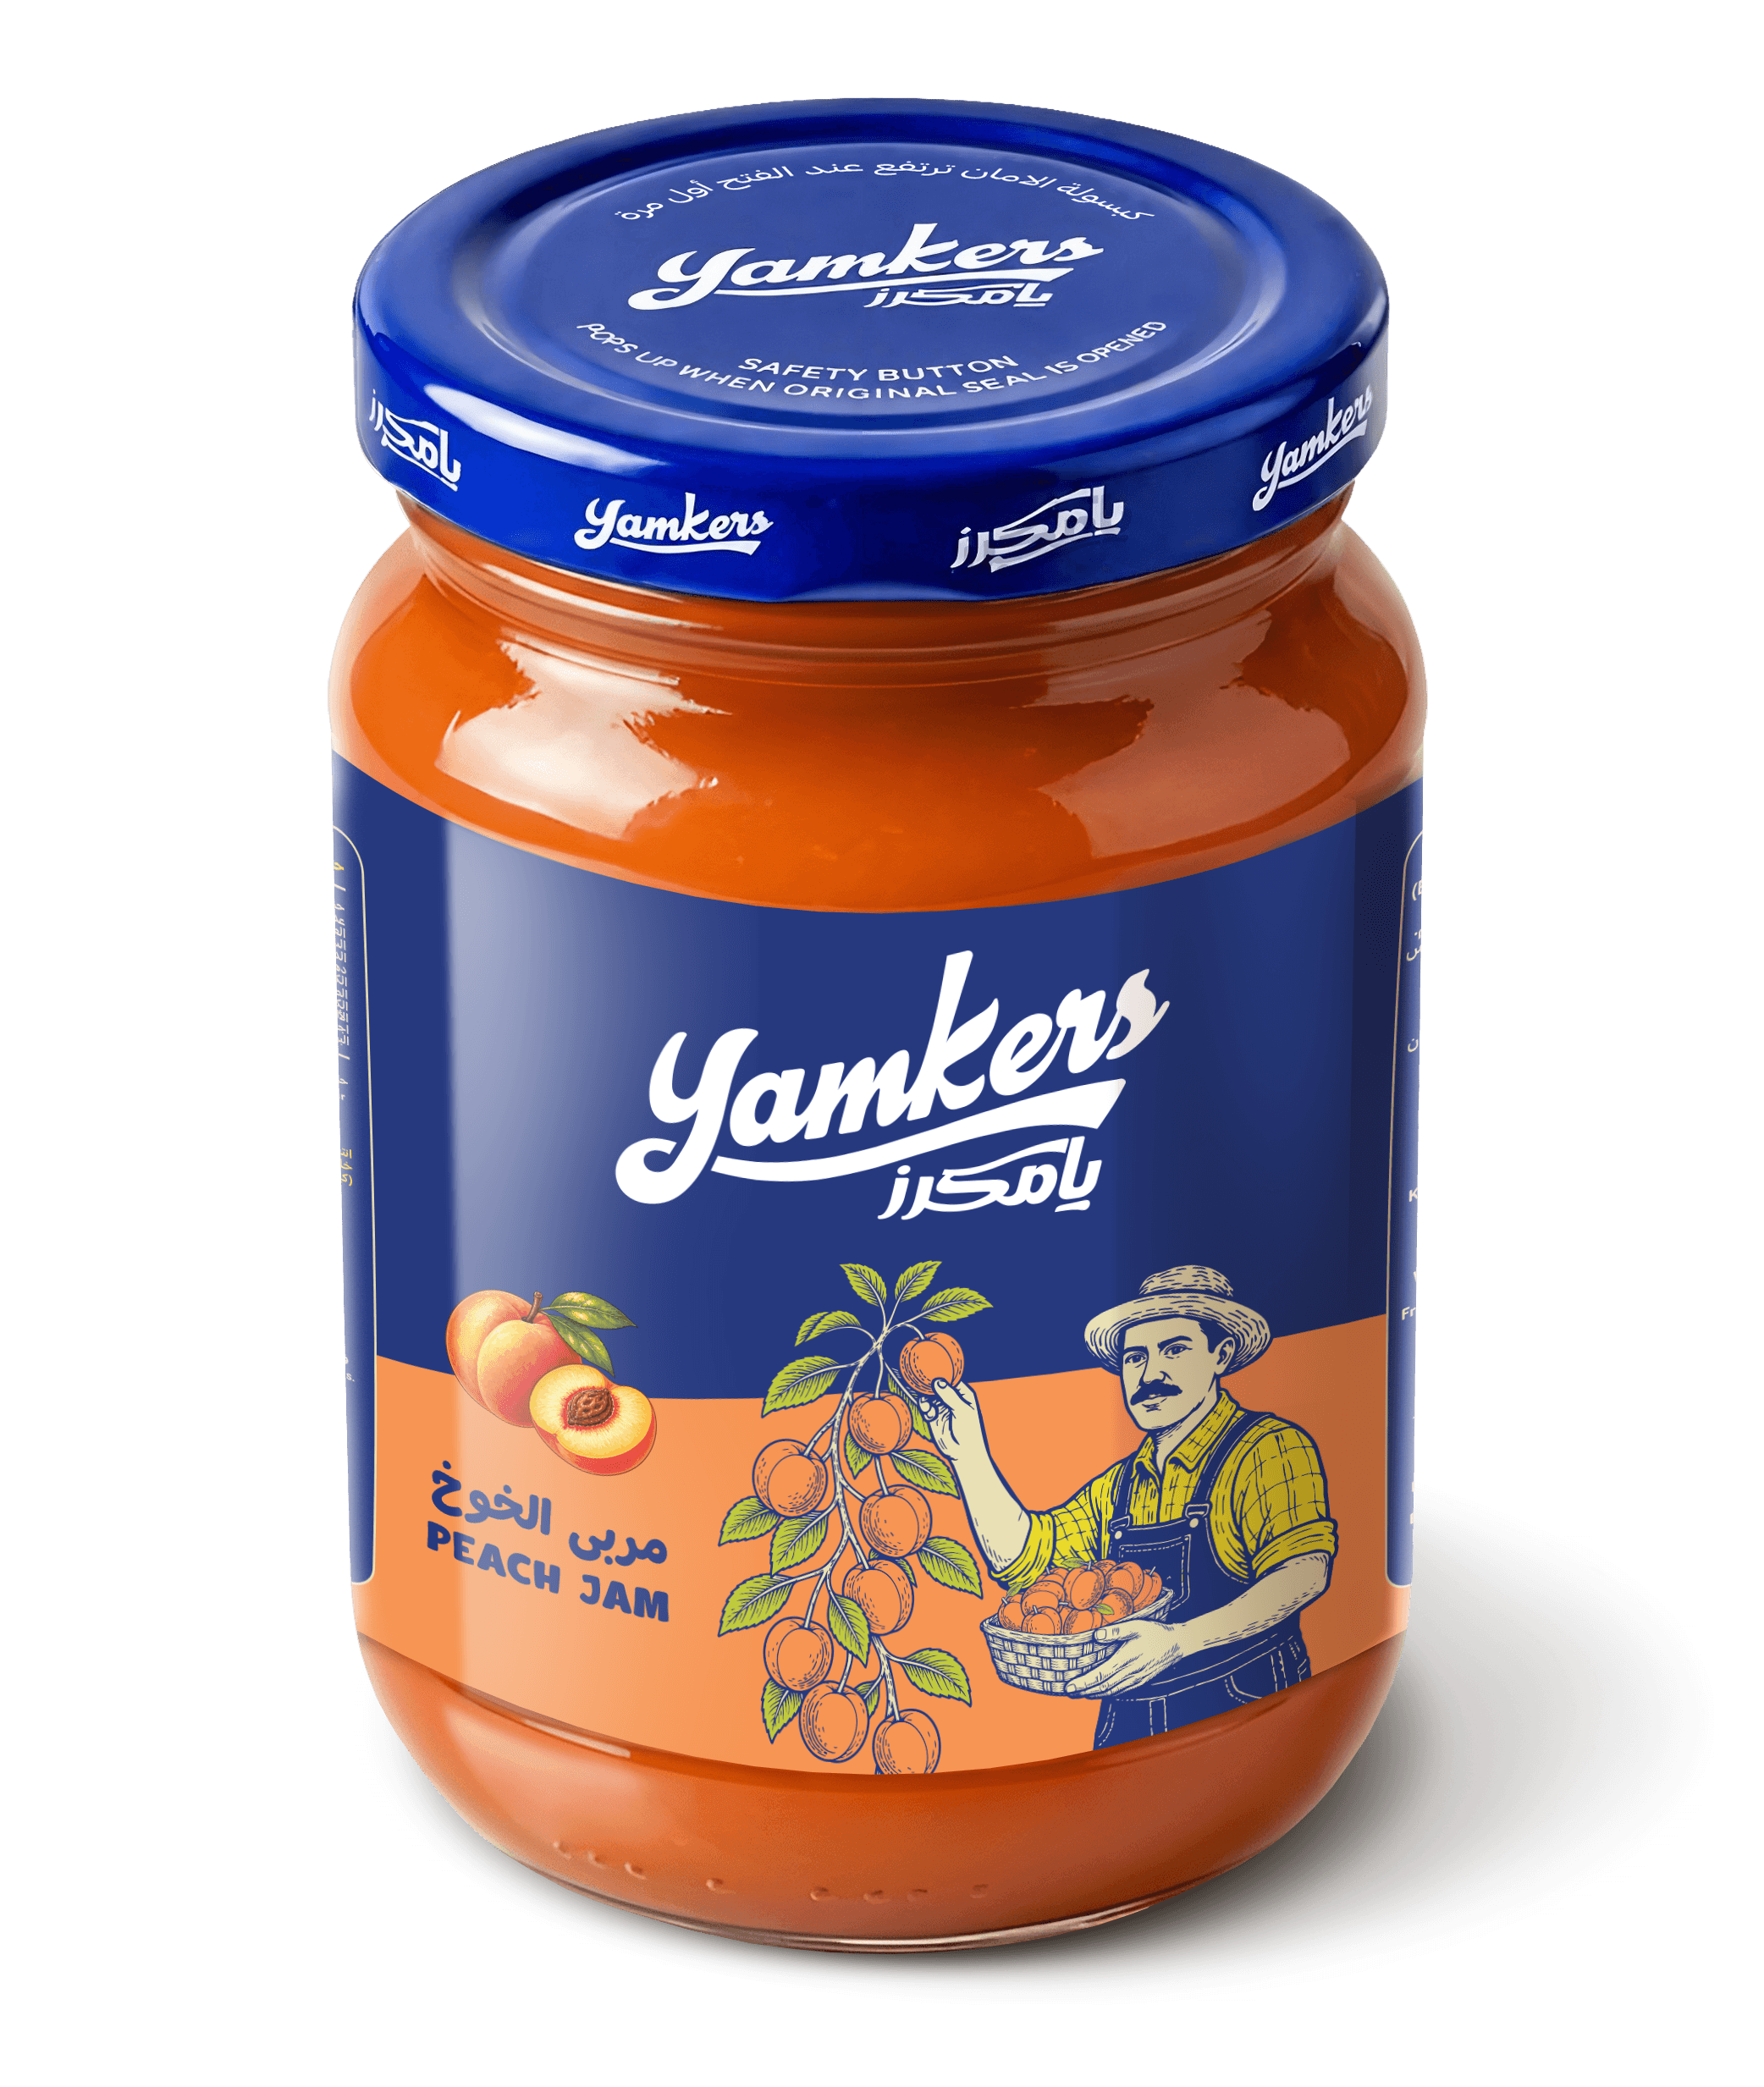
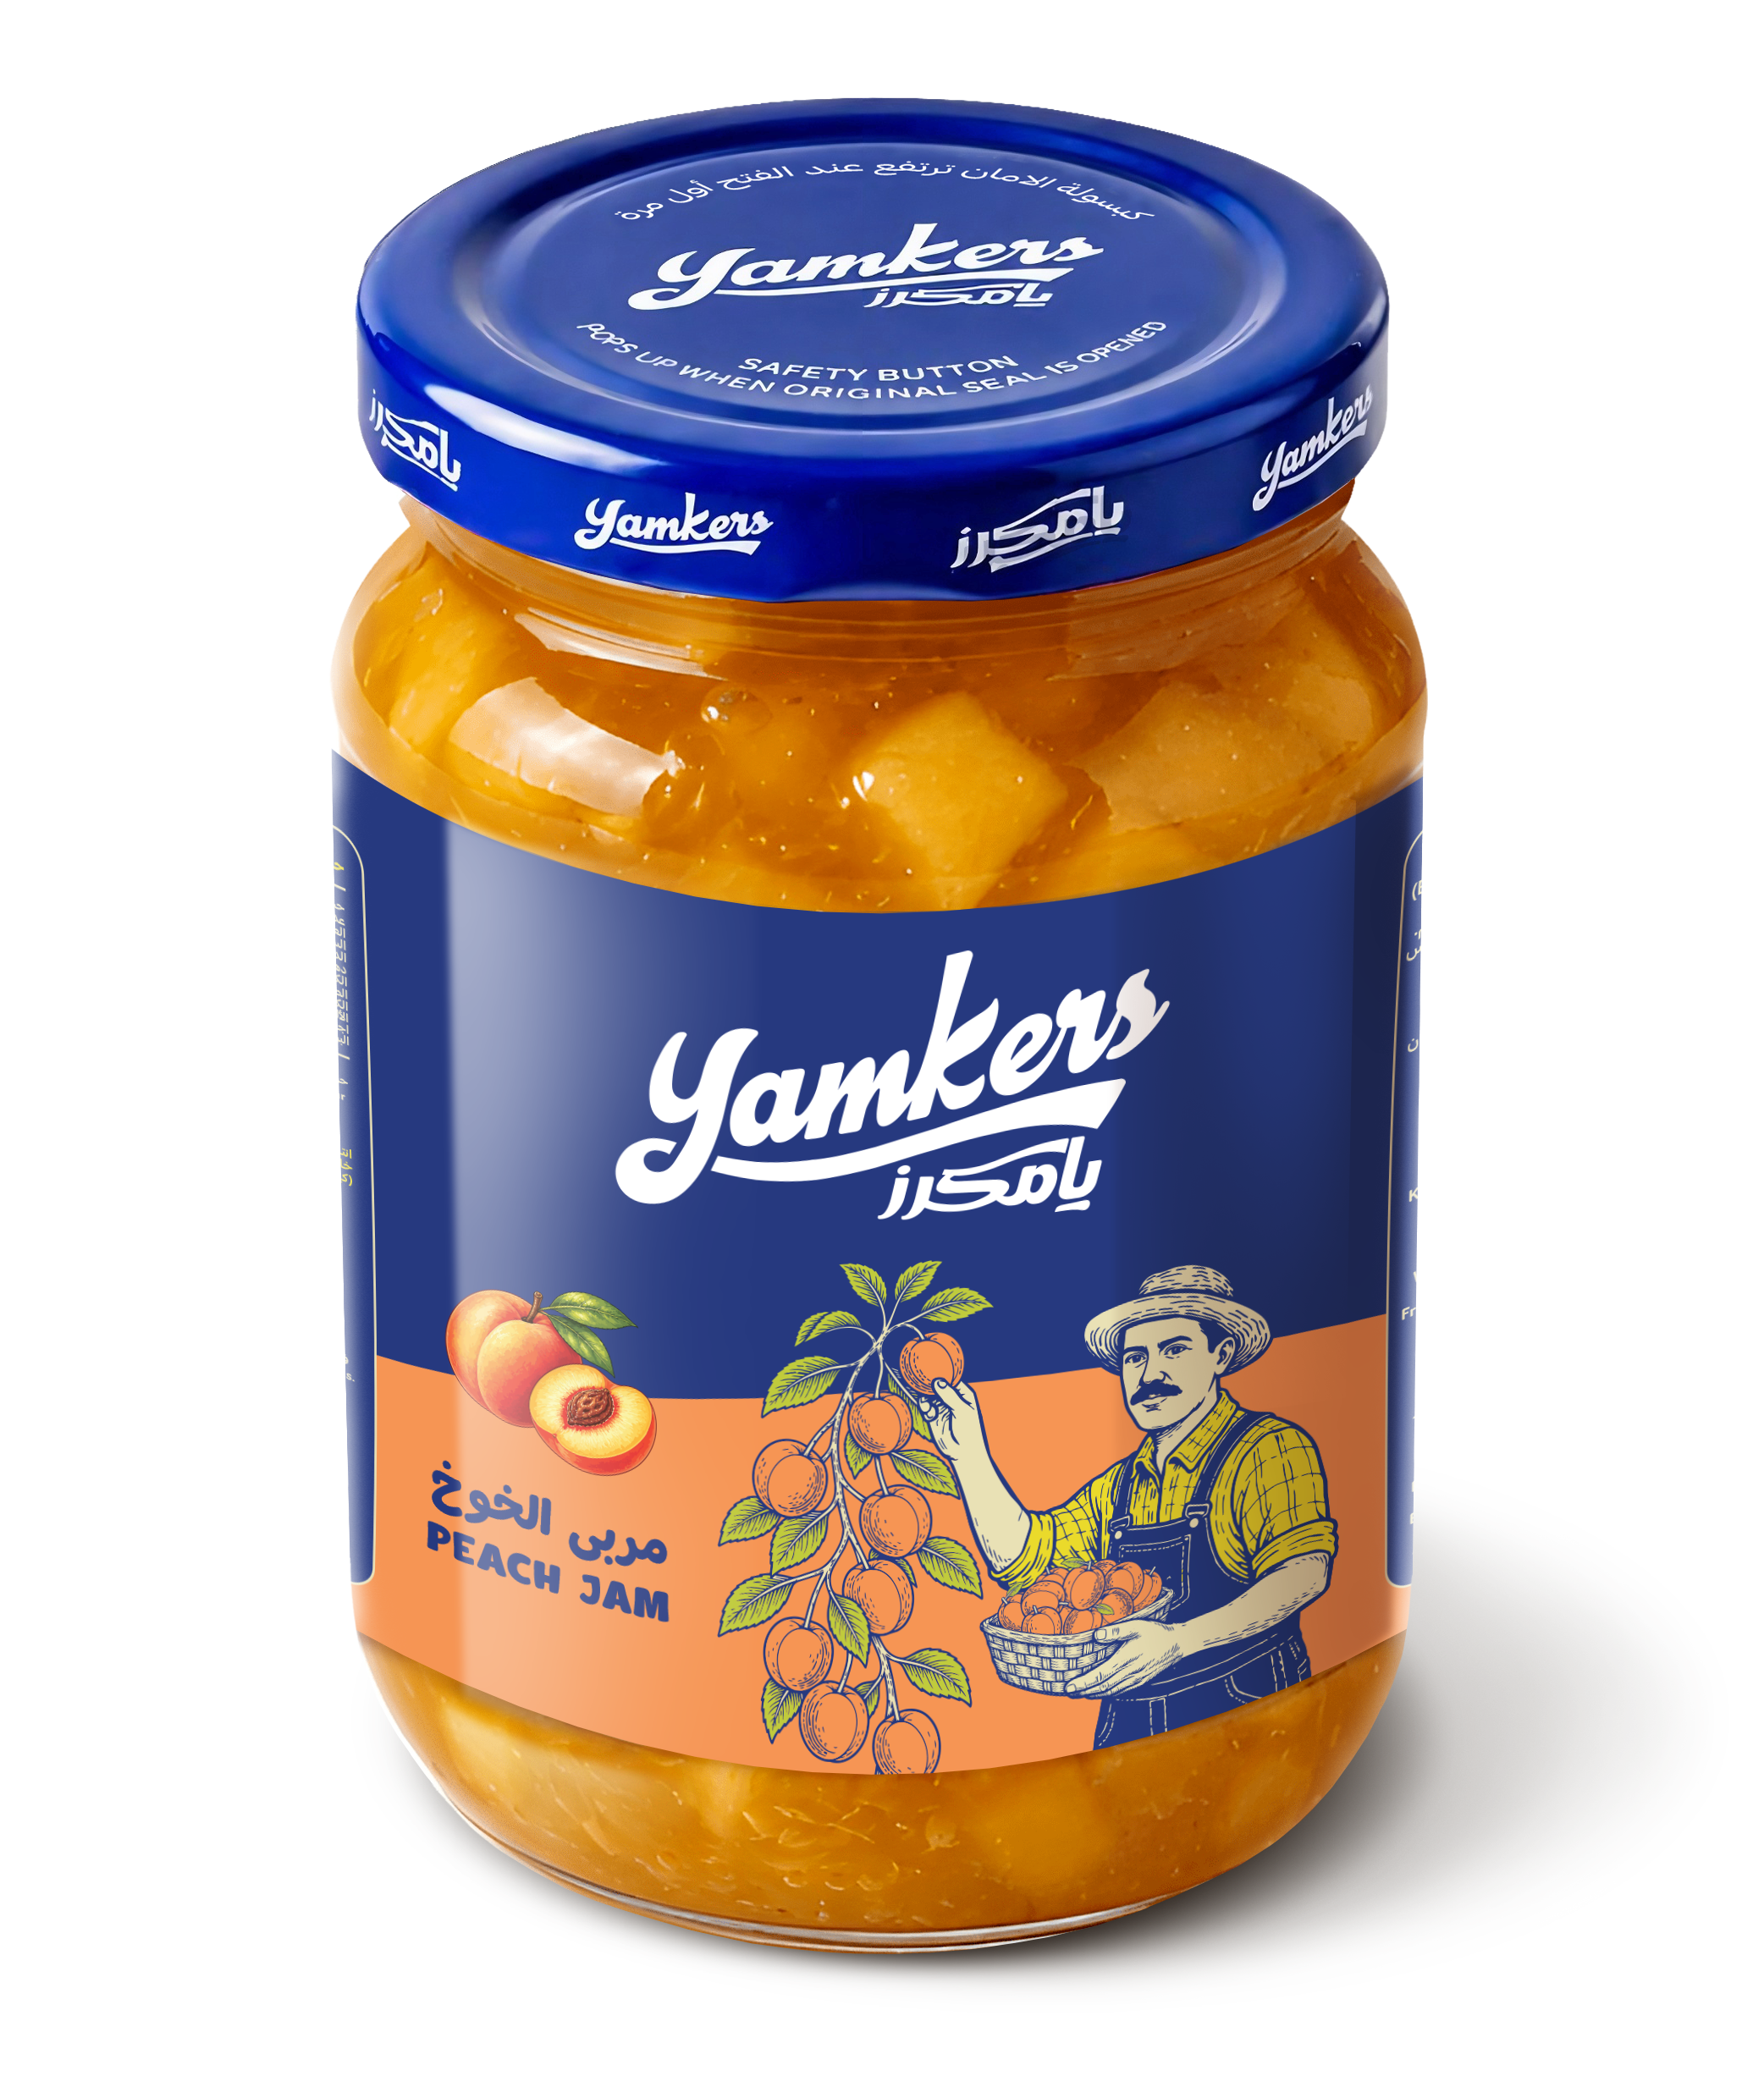
feat(news+content): factory address, brand+Morocco articles, asset swaps, R&D video
- Footer/contact: split HQ vs Factory addresses (EN/FR/AR)
- News: add 'KAG joins Egyptian trade mission to Morocco' (2026-06-06) and 'KAG expands brand portfolio' (2026-06-15) in EN/AR/FR; register both in POST_LOADERS
- Assets: swap ourbrandsbackground/privatelable/recipe to PNG; add event1.jpg, randd.mp4
- Private-label: 60% mask on StandardCard; conditional 40% mask on packaging tab only
- Custom-product: swap R&D source to /randd.mp4; remove pilot tab

Changed region(s): [[0.1871, 0.2186, 0.8109, 0.4371], [0.1871, 0.7806, 0.8109, 0.9367], [0.3119, 0.6245, 0.3431, 0.6557]]

diff --git a/src/components/ui/what-we-offer-section.tsx b/src/components/ui/what-we-offer-section.tsx
@@ -220,7 +220,7 @@ export default function WhatWeOfferSection() {
                   )}
                   {p.key === "privateLabel" && (
                     <StandardCard
-                      image="/privatelable.jpg"
+                      image="/privatelable.png"
                       title={t("pillars.privateLabel.title")}
                       summary={t("pillars.privateLabel.summary")}
                       items={t.raw("pillars.privateLabel.items") as string[]}
@@ -232,7 +232,7 @@ export default function WhatWeOfferSection() {
                   )}
                   {p.key === "customRecipe" && (
                     <StandardCard
-                      image="/recipe.jpg"
+                      image="/recipe.png"
                       title={t("pillars.customRecipe.title")}
                       summary={t("pillars.customRecipe.summary")}
                       items={t.raw("pillars.customRecipe.items") as string[]}
@@ -362,9 +362,9 @@ function OurBrandsCard({
     <>
       <div
         className="relative mb-4 h-72 w-full overflow-hidden rounded-lg bg-cover bg-center"
-        style={{ backgroundImage: "url('/ourbrandsbackground.webp')" }}
+        style={{ backgroundImage: "url('/ourbrandsbackground.png')" }}
       >
-        <div className="absolute inset-0 bg-white/70" />
+        <div className="absolute inset-0 bg-white/50" />
         <div className="relative z-10 flex h-full items-center justify-center p-6">
           <BrandLogoCarousel />
         </div>
@@ -457,13 +457,16 @@ function StandardCard({
 }: StandardCardProps) {
   return (
     <>
-      {/* eslint-disable-next-line @next/next/no-img-element */}
-      <img
-        src={image}
-        alt=""
-        className="mb-4 h-72 w-full rounded-lg object-cover"
-        loading="lazy"
-      />
+      <div className="relative mb-4 h-72 w-full overflow-hidden rounded-lg">
+        {/* eslint-disable-next-line @next/next/no-img-element */}
+        <img
+          src={image}
+          alt=""
+          className="h-full w-full object-cover"
+          loading="lazy"
+        />
+        <div className="pointer-events-none absolute inset-0 bg-black/30" />
+      </div>
       <div className="space-y-4">
         <div className="space-y-2">
           <h3

diff --git a/src/components/ui/private-label-section.tsx b/src/components/ui/private-label-section.tsx
@@ -33,7 +33,7 @@ type TabMedia =
 
 const TABS: TabMedia[] = [
   { value: "production", type: "video", src: "/privatelable.mp4" },
-  { value: "packaging", type: "image", src: "/privatelable.jpg" },
+  { value: "packaging", type: "image", src: "/privatelable.png" },
   { value: "export", type: "image", src: "/exportstrip.jpg" },
 ];
 
@@ -224,6 +224,12 @@ export default function PrivateLabelSection() {
                           sizes="(min-width: 768px) 50vw, 100vw"
                           className="object-cover"
                           priority={idx === 0}
+                        />
+                      )}
+                      {tab.value === "packaging" && (
+                        <div
+                          aria-hidden="true"
+                          className="pointer-events-none absolute inset-0 bg-black/40"
                         />
                       )}
                       <div

diff --git a/src/app/[locale]/news/[slug]/page.tsx b/src/app/[locale]/news/[slug]/page.tsx
@@ -29,13 +29,19 @@ export async function generateStaticParams() {
 
 const POST_LOADERS: Record<string, () => Promise<{ default: ComponentType }>> = {
   'en/iso-22000-recertification': () => import('@/content/news/en/iso-22000-recertification.mdx'),
+  'en/kag-expands-brand-portfolio': () => import('@/content/news/en/kag-expands-brand-portfolio.mdx'),
   'en/kag-expands-to-berlin-istanbul': () => import('@/content/news/en/kag-expands-to-berlin-istanbul.mdx'),
+  'en/kag-joins-egyptian-trade-mission-morocco': () => import('@/content/news/en/kag-joins-egyptian-trade-mission-morocco.mdx'),
   'en/yamkers-fava-beans-launch': () => import('@/content/news/en/yamkers-fava-beans-launch.mdx'),
   'ar/iso-22000-recertification': () => import('@/content/news/ar/iso-22000-recertification.mdx'),
+  'ar/kag-expands-brand-portfolio': () => import('@/content/news/ar/kag-expands-brand-portfolio.mdx'),
   'ar/kag-expands-to-berlin-istanbul': () => import('@/content/news/ar/kag-expands-to-berlin-istanbul.mdx'),
+  'ar/kag-joins-egyptian-trade-mission-morocco': () => import('@/content/news/ar/kag-joins-egyptian-trade-mission-morocco.mdx'),
   'ar/yamkers-fava-beans-launch': () => import('@/content/news/ar/yamkers-fava-beans-launch.mdx'),
   'fr/iso-22000-recertification': () => import('@/content/news/fr/iso-22000-recertification.mdx'),
+  'fr/kag-expands-brand-portfolio': () => import('@/content/news/fr/kag-expands-brand-portfolio.mdx'),
   'fr/kag-expands-to-berlin-istanbul': () => import('@/content/news/fr/kag-expands-to-berlin-istanbul.mdx'),
+  'fr/kag-joins-egyptian-trade-mission-morocco': () => import('@/content/news/fr/kag-joins-egyptian-trade-mission-morocco.mdx'),
   'fr/yamkers-fava-beans-launch': () => import('@/content/news/fr/yamkers-fava-beans-launch.mdx'),
 };
 

diff --git a/src/components/ui/custom-product-section.tsx b/src/components/ui/custom-product-section.tsx
@@ -32,9 +32,8 @@ type TabMedia =
   | { value: string; type: "video"; src: string };
 
 const TABS: TabMedia[] = [
-  { value: "rnd",     type: "video", src: "/sauce.mp4" },
-  { value: "tasting", type: "image", src: "/recipe.jpg" },
-  { value: "pilot",   type: "video", src: "/applejam.mp4" },
+  { value: "rnd",     type: "video", src: "/randd.mp4" },
+  { value: "tasting", type: "image", src: "/recipe.png" },
 ];
 
 export default function CustomProductSection() {

diff --git a/src/components/ui/footer.tsx b/src/components/ui/footer.tsx
@@ -145,6 +145,10 @@ export function Footer() {
                   <MapPin className="mt-0.5 h-4 w-4 shrink-0 text-foreground/50" />
                   <span>{t('address')}</span>
                 </li>
+                <li className="flex items-start gap-2 text-sm text-foreground/70 md:text-xs">
+                  <MapPin className="mt-0.5 h-4 w-4 shrink-0 text-foreground/50" />
+                  <span>{t('addressFactory')}</span>
+                </li>
                 <li className="flex items-start gap-2 text-sm md:text-xs">
                   <Phone className="mt-0.5 h-4 w-4 shrink-0 text-foreground/50" />
                   <div className="flex flex-col gap-0.5">

diff --git a/src/app/[locale]/contact/page.tsx b/src/app/[locale]/contact/page.tsx
@@ -40,9 +40,10 @@ export default async function ContactPage({ params }: { params: Promise<{ locale
                   <span className="mt-0.5 flex h-9 w-9 shrink-0 items-center justify-center rounded-full bg-secondary/30 text-primary">
                     <MapPin className="h-4 w-4" />
                   </span>
-                  <div className="flex flex-col">
+                  <div className="flex flex-col gap-1">
                     <span className="text-xs uppercase tracking-wider text-primary/60">{t('info.address')}</span>
                     <span className="text-primary">{tFooter('address')}</span>
+                    <span className="text-primary">{tFooter('addressFactory')}</span>
                   </div>
                 </li>
 

diff --git a/src/components/ui/custom-product-hero.tsx b/src/components/ui/custom-product-hero.tsx
@@ -62,7 +62,7 @@ export default function CustomProductHero({
         className="absolute inset-0"
       >
         <Image
-          src="/recipe.jpg"
+          src="/recipe.png"
           alt=""
           fill
           priority